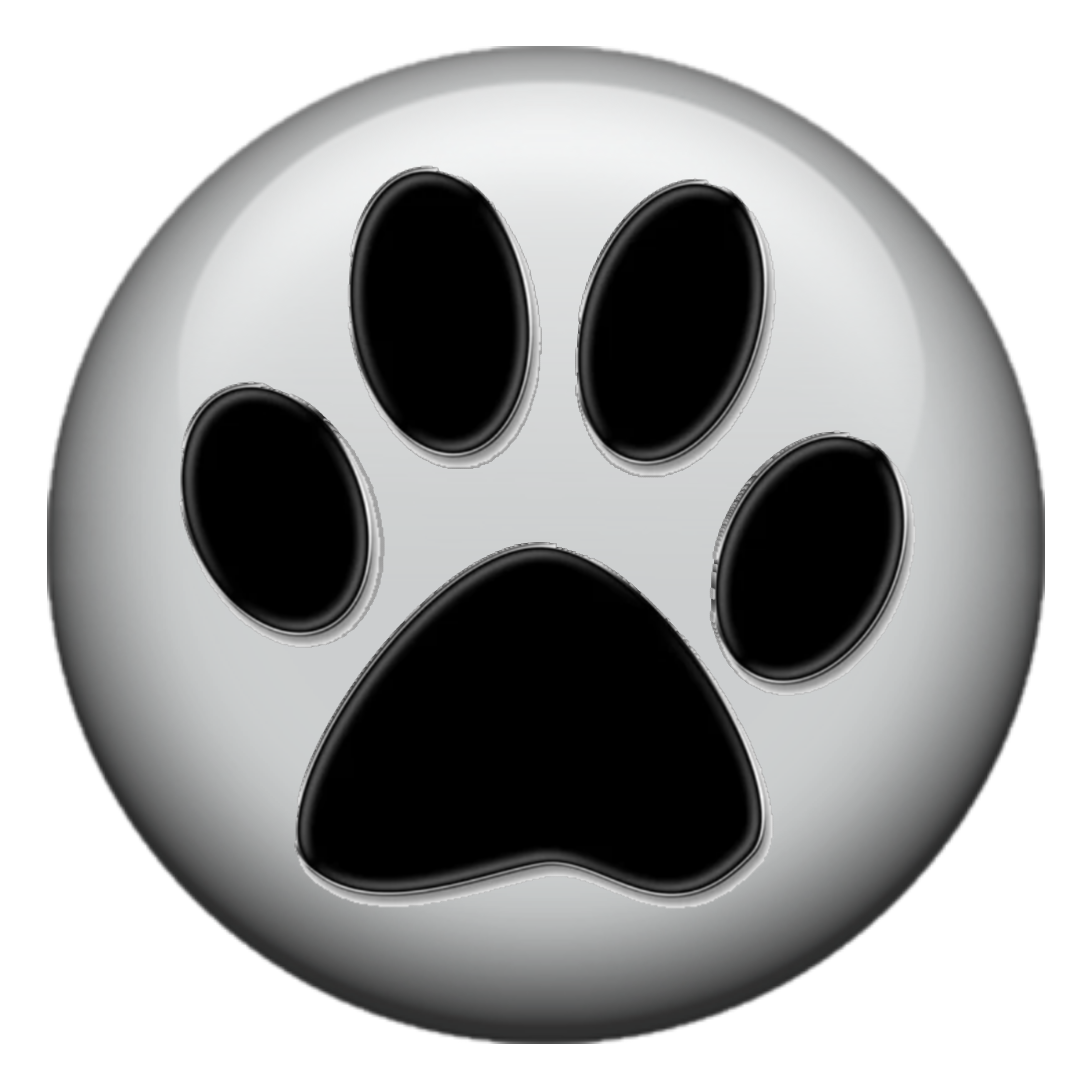
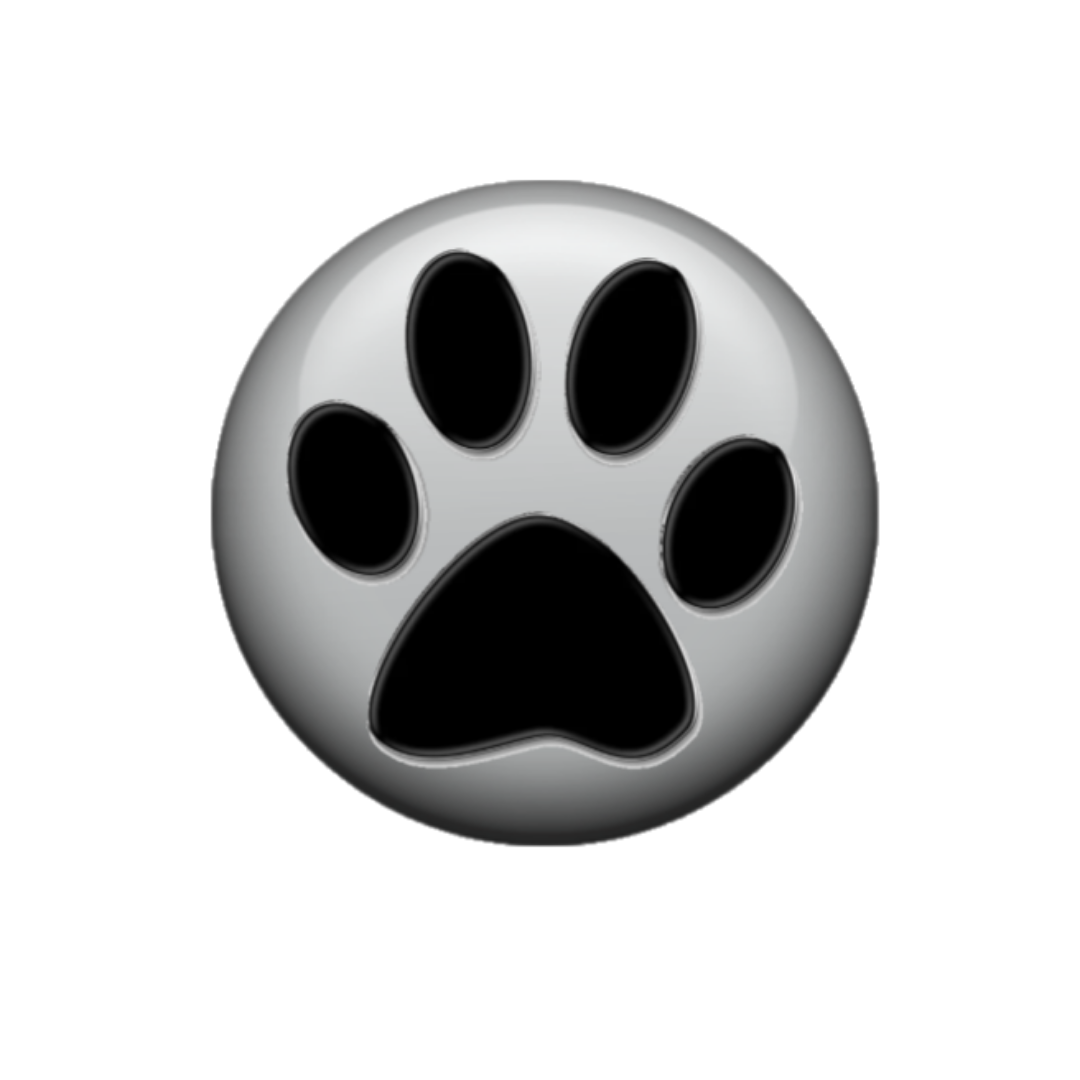
Integracion de proyectos realizados

diff --git a/src/app/projects/projects.component.ts b/src/app/projects/projects.component.ts
@@ -15,36 +15,81 @@ export class ProjectsComponent implements OnInit {
       img: '../assets/images/projects/hdt.png',
       type: 'mobile front back',
       title: 'Herramientas de Texto',
-      description: 'La aplicación cuenta con varias herramientas que de seguro te servirán',
-      link: 'https://play.google.com/store/apps/details?id=appht.danielpativas.herramientasdetexto&hl=es_EC&gl=US'
+      description: 'The application has several tools that will surely be useful for you.',
+      link: 'https://play.google.com/store/apps/details?id=appht.danielpativas.herramientasdetexto&hl=es_EC&gl=US',
+      code: 'Dart'
     },
     {
       img: '../assets/images/projects/cyd.png',
       type: 'mobile front',
       title: 'Cobros y Deudas',
-      description: 'La aplicación ayuda con el correcto manejo de finanzas personales como pueden ser préstamos pequeños.',
-      link: 'https://play.google.com/store/apps/details?id=appcyb.danielpativas.cobrosydeudas&hl=es_EC&gl=US'
+      description: 'The application helps with the proper management of personal finances such as small loans.',
+      link: 'https://play.google.com/store/apps/details?id=appcyb.danielpativas.cobrosydeudas&hl=es_EC&gl=US',
+      code: 'Java'
     },
     {
       img: '../assets/images/projects/cdm.png',
       type: 'mobile front',
       title: 'Carnet de Mascotas',
-      description: 'La aplicación te permite llevar un mejor control de registros de tu mascota',
-      link: 'https://play.google.com/store/apps/details?id=appccm.danielpativas.carnetdecontrolmascotas&hl=es_EC&gl=US'
+      description: 'The application allows you to keep better control of your pet'+"'"+'s records.',
+      link: 'https://play.google.com/store/apps/details?id=appccm.danielpativas.carnetdecontrolmascotas&hl=es_EC&gl=US',
+      code: 'Dart'
     },
     {
       img: '../assets/images/projects/jwt.png',
       type: 'back',
       title: 'JWT con SpringBoot',
-      description: 'Práctica de Web Service realizada en Spring Boot con la integración de seguridad de Json Web Token',
-      link: 'https://github.com/Daniel070999/springBoot_Practica_JWT'
+      description: 'Web Service practice performed in Spring Boot with Json Web Token security integration.',
+      link: 'https://github.com/Daniel070999/springBoot_Practica_JWT',
+      code: 'Java'
     },
     {
       img: '../assets/images/projects/webangular.png',
       type: 'web back',
       title: 'Consumo de Web Service con Angular',
-      description: 'Práctica general en Angular con el Consumo de Web Service',
-      link: 'https://github.com/Daniel070999/practicaAngular'
+      description: 'General practice in Angular with Web Service Consumption.',
+      link: 'https://github.com/Daniel070999/practicaAngular',
+      code: 'TypeScript + HTML + CSS'
+    },
+    {
+      img: '../assets/images/projects/fychat.png',
+      type: 'mobile back',
+      title: 'Chat GPT con Flutter',
+      description: 'Practice with Flutter and GPT Chat connection through OpenAi API.',
+      link: 'https://github.com/Daniel070999/flutter_chat_gpt',
+      code: 'Dart'
+    },
+    {
+      img: '../assets/images/projects/fyfb.png',
+      type: 'mobile back',
+      title: 'Firebase con Flutter',
+      description: 'Practice with Flutter and real-time data reading with Firebase.',
+      link: 'https://github.com/Daniel070999/firebase_flutter_lectura_snapshost',
+      code: 'Dart'
+    },
+    {
+      img: '../assets/images/projects/cal.png',
+      type: 'mobile front',
+      title: 'Calculador Básica',
+      description: 'Practice of a calculator made with Kotlin programming language.',
+      link: 'https://github.com/Daniel070999/Calculadora-Kotlin',
+      code: 'Kotlin'
+    },
+    {
+      img: '../assets/images/projects/fys.png',
+      type: 'mobile back',
+      title: 'Supabase con Flutter',
+      description: 'Data management practice (CRUD) with Flutter and Supabase.',
+      link: 'https://github.com/Daniel070999/flutter_Supabase',
+      code: 'Dart'
+    },
+    {
+      img: '../assets/images/projects/calyr.png',
+      type: 'web front',
+      title: 'Calculadora con React',
+      description: 'Practice with React for the creation of a basic Calculator.',
+      link: 'https://github.com/Daniel070999/Calculadora-React',
+      code: 'JavaScript + HTML + CSS'
     }
   ];
 

diff --git a/src/app/projects/projects.component.css b/src/app/projects/projects.component.css
@@ -94,7 +94,8 @@ h2 {
 }
 
 .project-grid-item img {
-    width: 100%;
+    max-width: 75%;
+    max-height: 70%;
 }
 
 .project-item {
@@ -157,7 +158,8 @@ h2 {
 
 .project-item .project-img-overlay:hover .project-content h4,
 .project-item .project-img-overlay:hover .project-content h6,
-.project-item .project-img-overlay:hover .project-content .button {
+.project-item .project-img-overlay:hover .project-content .button,
+.project-item .project-img-overlay:hover .project-content .codes {
     -webkit-transform: translateY(0);
     transform: translateY(0);
     opacity: 1;
@@ -166,6 +168,22 @@ h2 {
 .project-item .project-img-overlay .project-content h4,
 .project-item .project-img-overlay .project-content .button {
     color: #333;
+    font-size: 16px;
+    letter-spacing: 0.5px;
+    font-weight: 700;
+    position: relative;
+    margin-bottom: 10px;
+    text-transform: capitalize;
+    -webkit-transform: translateY(-15px);
+    transform: translateY(-15px);
+    opacity: 0;
+    z-index: 7;
+    -webkit-transition: all .6s;
+    transition: all .6s;
+}
+
+.project-item .project-img-overlay .project-content .codes {
+    color: #ff0303af;
     font-size: 16px;
     letter-spacing: 0.5px;
     font-weight: 700;
@@ -199,6 +217,7 @@ h2 {
     color: black;
 
 }
+
 
 .project-item .project-img-overlay .project-content h6 {
     color: #0099ff;

diff --git a/src/app/projects/projects.component.html b/src/app/projects/projects.component.html
@@ -47,6 +47,7 @@
                   <div class="project-content">
                     <h6>{{project.title}}</h6>
                     <h4>{{project.description}}</h4>
+                    <p class="codes">{{project.code}}</p>
                     <a [href]="project.link" class="button" [target]="project.link">Ver</a>
                   </div>
                 </div>
